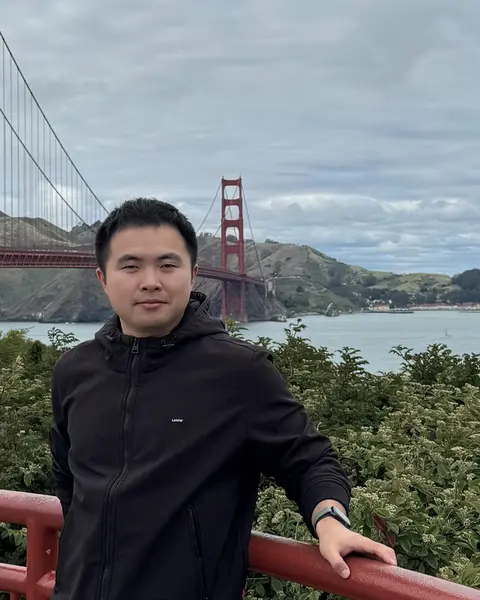
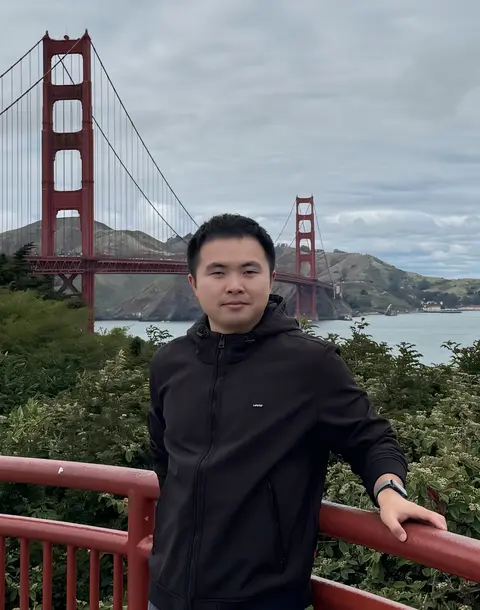
Deploying to gh-pages from @ hongzhengTian/hongzhengtian.github.io@e27018cf08aafd1211466bfc9c48710d0896c82e 🚀

diff --git a/index.html b/index.html
@@ -4,7 +4,7 @@
   }
 </style> <link rel="stylesheet" href="/assets/css/tailwind.css?v=50c64c15cbb9fd1ce6056fdb8bcb4b62"> <link defer rel="stylesheet" href="https://cdn.jsdelivr.net/npm/@fortawesome/fontawesome-free@7.2.0/css/all.min.css" integrity="sha256-MVopmdyC2tYTiJ8wlktf0uh0v4NgT+vNdyVFepi7Q0c=" crossorigin="anonymous"> <link defer rel="stylesheet" href="https://cdn.jsdelivr.net/npm/academicons@1.9.5/css/academicons.min.css" integrity="sha256-SzrCOBJbGVFMahewkgjwnApaV2+av1DwMAA+/QGLyZw=" crossorigin="anonymous"> <link defer rel="stylesheet" href="https://cdn.jsdelivr.net/npm/scholar-icons@1.0.3/css/scholar-icons.css" integrity="sha256-VY3hHVj/hNX3fYG6wtbA6TcKJQl7+FthzGSyIB64klY=" crossorigin="anonymous"> <link defer rel="stylesheet" type="text/css" href="https://fonts.googleapis.com/css?family=Roboto:300,400,500,700|Roboto+Slab:100,300,400,500,700|Material+Icons&amp;display=swap"> <link defer rel="stylesheet" href="/assets/css/jekyll-pygments-themes-github.css?v=591dab5a4e56573bf4ef7fd332894c99" media="" id="highlight_theme_light"> <link rel="stylesheet" href="/assets/css/main.css?v=f0b101217084a90093badfe99ff9a7d1"> <link rel="canonical" href="https://hongzhengtian.github.io/"> <script src="/assets/js/theme.js?v=7af685e2ba20b37fef545c97b8064050"></script> <link defer rel="stylesheet" href="/assets/css/jekyll-pygments-themes-native.css?v=5847e5ed4a4568527aa6cfab446049ca" media="none" id="highlight_theme_dark"> <script>
     initTheme();
-  </script> </head> <body class="fixed-top-nav "> <header> <nav id="navbar" class="navbar navbar-light navbar-expand-sm fixed-top" role="navigation"> <div class="container"> <button class="navbar-toggler collapsed navbar-toggler-main" type="button" data-nav-toggle="navbarNav" aria-controls="navbarNav" aria-expanded="false" aria-label="Toggle navigation"> <span class="sr-only">Toggle navigation</span> <span class="icon-bar top-bar"></span> <span class="icon-bar middle-bar"></span> <span class="icon-bar bottom-bar"></span> </button> <div class="collapse navbar-collapse navbar-collapse-main" id="navbarNav"> <ul class="navbar-nav navbar-menu-list flex-nowrap"> <li class="nav-item active"> <a class="nav-link" href="/">about <span class="sr-only">(current)</span> </a> </li> <li class="nav-item "> <a class="nav-link" href="/research/">research </a> </li> <li class="nav-item "> <a class="nav-link" href="/publications/">publications </a> </li> <li class="nav-item "> <a class="nav-link" href="/experience/">experience </a> </li> <li class="nav-item "> <a class="nav-link" href="/cv/">CV </a> </li> <li class="nav-item "> <a class="nav-link" href="/photography/">photography </a> </li> <li class="nav-item"> <button id="search-toggle" type="button" title="Search" aria-label="Open search"> <span class="nav-link">ctrl k <i class="fa-solid fa-magnifying-glass"></i></span> </button> </li> <li class="toggle-container"> <button id="light-toggle" type="button" title="Change theme" aria-label="Change color theme"> <i class="fa-half-sun-moon" id="light-toggle-system"></i> <i class="fa-solid fa-moon" id="light-toggle-dark"></i> <i class="fa-solid fa-sun" id="light-toggle-light"></i> </button> </li> </ul> </div> </div> </nav> <progress id="progress" value="0"> <div class="progress-container"> <span class="progress-bar"></span> </div> </progress> </header> <div class="container mt-5" role="main"> <div class="post"> <header class="post-header"> <h1 class="post-title"> Hongzheng Tian </h1> <p class="desc">Ph.D. Candidate in Computer Engineering, University of California, Irvine</p> </header> <article> <div class="profile float-right"> <figure> <picture> <source class="responsive-img-srcset" srcset="/assets/img/prof_pic-480.webp 480w,/assets/img/prof_pic-800.webp 800w,/assets/img/prof_pic-1400.webp 1400w," type="image/webp" sizes="(min-width: 930px) 270.0px, (min-width: 576px) 30vw, 95vw"> <img src="/assets/img/prof_pic.jpg?v=1dd28f9ddda666f04de87e12becac908" class="img-fluid z-depth-1 rounded" width="100%" height="auto" alt="prof_pic.jpg" loading="eager" onerror="this.onerror=null; document.querySelectorAll('.responsive-img-srcset').forEach(function (n) { n.remove(); });"> </source></picture> </figure> <div class="more-info"> <p>EECS, UC Irvine</p> <p>CORSA Research Group</p> <p>hongzhet [at] uci [dot] edu</p> </div> </div> <div class="clearfix"> <p>I am a Ph.D. candidate in Computer Engineering at the <a href="https://engineering.uci.edu/dept/eecs" rel="external nofollow noopener" target="_blank">EECS Department</a> of the <a href="https://uci.edu/" rel="external nofollow noopener" target="_blank">University of California, Irvine</a>, advised by Prof. <a href="https://engineering.uci.edu/users/sitao-huang" rel="external nofollow noopener" target="_blank">Sitao Huang</a> in the <a href="https://corsa.eng.uci.edu/" rel="external nofollow noopener" target="_blank">CORSA</a> research group.</p> <p>My research lies at the intersection of <strong>compilers, optimization, and heterogeneous computing</strong>. I build compiler and benchmarking systems that translate high-level workloads into efficient, architecture-aware code targeting CPUs, GPUs, and FPGAs. My recent work studies benchmark design, MLIR-based compilation, task scheduling, and hardware/software co-optimization for diverse accelerator platforms.</p> <p>I am broadly interested in compiler infrastructure for heterogeneous systems, performance portability, accelerator design automation, and practical tools that help researchers and developers reason about efficiency across modern hardware.</p> <p>You can find my latest <a href="/assets/pdf/HongzhengTian_CV.pdf">CV</a>, <a href="https://github.com/hongzhengTian" rel="external nofollow noopener" target="_blank">GitHub</a>, and <a href="http://linkedin.com/in/hongzheng-tian-853258204" rel="external nofollow noopener" target="_blank">LinkedIn</a> here.</p> </div> <h2> <a href="/news/" style="color: inherit">news</a> </h2> <div class="news"> <div class="table-responsive"> <table class="table table-sm table-borderless"> <tr> <th scope="row" style="width: 20%">May 01, 2025</th> <td> HeteroBench received the Best Paper Award - Artifact Track at ICPE 2025. </td> </tr> <tr> <th scope="row" style="width: 20%">Nov 17, 2024</th> <td> Presented CoVA at the SC24 ACM Student Research Competition. </td> </tr> <tr> <th scope="row" style="width: 20%">Oct 01, 2024</th> <td> Published work on optimized spatial architecture mapping for Transformer accelerators on arXiv. </td> </tr> </table> </div> </div> <h2> <a href="/publications/" style="color: inherit">selected publications</a> </h2> <div class="publications"> <ol class="bibliography"> <li> <div class="row"> <div class="col col-sm-2 abbr"> <abbr class="badge rounded w-100"> <a href="https://icpe.spec.org/" rel="external nofollow noopener" target="_blank">ICPE</a> </abbr> </div> <div id="tian2025heterobench" class="col-sm-8"> <div class="title">HeteroBench: Multi-kernel Benchmarks for Heterogeneous Systems</div> <div class="author"> <em>Hongzheng Tian</em> and others </div> <div class="periodical"> <em>In Proceedings of the ACM/SPEC International Conference on Performance Engineering</em>, 2025 </div> <div class="periodical"> </div> <div class="links"> <a href="https://doi.org/10.1145/3676151.3719366" class="btn btn-sm z-depth-0" role="button" rel="external nofollow noopener" target="_blank">DOI</a> <a href="https://doi.org/10.1145/3676151.3719366" class="btn btn-sm z-depth-0" role="button" rel="external nofollow noopener" target="_blank">HTML</a> <a href="https://github.com/HewlettPackard/HeteroBench" class="btn btn-sm z-depth-0" role="button" rel="external nofollow noopener" target="_blank">Code</a> </div> </div> </div> </li> <li> <div class="row"> <div class="col col-sm-2 abbr"> <abbr class="badge rounded w-100">arXiv</abbr> </div> <div id="xu2024samt" class="col-sm-8"> <div class="title">Optimized Spatial Architecture Mapping Flow for Transformer Accelerators</div> <div class="author"> Haocheng Xu, Faraz Tahmasebi, Ye Qiao, and <span class="more-authors" title="click to view 3 more authors" onclick=" var element=this; element.setAttribute('title', ''); var more_authors_text=element.textContent == '3 more authors' ? 'Hongzheng Tian, Hyoukjun Kwon, Sitao Huang' : '3 more authors'; var cursorPosition=0; var textAdder=setInterval(function(){ element.innerHTML = more_authors_text.substring(0, cursorPosition + 1); if (++cursorPosition == more_authors_text.length){ clearInterval(textAdder); } }, '10'); ">3 more authors</span> </div> <div class="periodical"> <em>arXiv preprint arXiv:2410.07407</em>, 2024 </div> <div class="periodical"> </div> <div class="links"> <a href="http://arxiv.org/abs/2410.07407" class="btn btn-sm z-depth-0" role="button" rel="external nofollow noopener" target="_blank">arXiv</a> <a href="https://arxiv.org/abs/2410.07407" class="btn btn-sm z-depth-0" role="button" rel="external nofollow noopener" target="_blank">HTML</a> </div> </div> </div> </li> <li> <div class="row"> <div class="col col-sm-2 abbr"> <abbr class="badge rounded w-100"> <a href="https://supercomputing.org/" rel="external nofollow noopener" target="_blank">SC</a> </abbr> </div> <div id="tian2024cova" class="col-sm-8"> <div class="title">CoVA: An MLIR-Based Compilation Flow for Versatile Architecture</div> <div class="author"> <em>Hongzheng Tian</em> and others </div> <div class="periodical"> 2024 </div> <div class="periodical"> </div> <div class="links"> <a href="https://sc24.supercomputing.org/proceedings/poster/poster_pages/post190.html" class="btn btn-sm z-depth-0" role="button" rel="external nofollow noopener" target="_blank">HTML</a> </div> </div> </div> </li> <li> <div class="row"> <div class="col col-sm-2 abbr"> <abbr class="badge rounded w-100"> <a href="https://iccad.com/" rel="external nofollow noopener" target="_blank">ICCAD</a> </abbr> </div> <div id="zhang2024pathplanning" class="col-sm-8"> <div class="title">A Sparsity-Aware Autonomous Path Planning Accelerator with HW/SW Co-Design and Multi-Level Dataflow Optimization</div> <div class="author"> Yifan Zhang, Xiaoyu Niu, <em>Hongzheng Tian</em>, and <span class="more-authors" title="click to view 4 more authors" onclick=" var element=this; element.setAttribute('title', ''); var more_authors_text=element.textContent == '4 more authors' ? 'Yanjun Zhang, Bo Yu, Shaoshan Liu, Sitao Huang' : '4 more authors'; var cursorPosition=0; var textAdder=setInterval(function(){ element.innerHTML = more_authors_text.substring(0, cursorPosition + 1); if (++cursorPosition == more_authors_text.length){ clearInterval(textAdder); } }, '10'); ">4 more authors</span> </div> <div class="periodical"> <em>In Proceedings of the IEEE/ACM International Conference on Computer-Aided Design</em>, 2024 </div> <div class="periodical"> </div> <div class="links"> <a href="https://dl.acm.org/doi/abs/10.1145/3676536.3676700" class="btn btn-sm z-depth-0" role="button" rel="external nofollow noopener" target="_blank">HTML</a> </div> </div> </div> </li> <li> <div class="row"> <div class="col col-sm-2 abbr"> <abbr class="badge rounded w-100"> <a href="https://www.dac.com/" rel="external nofollow noopener" target="_blank">DAC</a> </abbr> </div> <div id="tian2023pyaie" class="col-sm-8"> <div class="title">PyAIE: A Python-based Programming Framework for Versal ACAP AI Engines</div> <div class="author"> <em>Hongzheng Tian</em>, Shining Yang, Yoonha Cha, and <span class="more-authors" title="click to view 1 more author" onclick=" var element=this; element.setAttribute('title', ''); var more_authors_text=element.textContent == '1 more author' ? 'Sitao Huang' : '1 more author'; var cursorPosition=0; var textAdder=setInterval(function(){ element.innerHTML = more_authors_text.substring(0, cursorPosition + 1); if (++cursorPosition == more_authors_text.length){ clearInterval(textAdder); } }, '10'); ">1 more author</span> </div> <div class="periodical"> 2023 </div> <div class="periodical"> </div> <div class="links"> <a href="https://ieeexplore.ieee.org/abstract/document/10247843" class="btn btn-sm z-depth-0" role="button" rel="external nofollow noopener" target="_blank">HTML</a> <a href="https://capra.cs.cornell.edu/latte23/paper/10.pdf" class="btn btn-sm z-depth-0" role="button" rel="external nofollow noopener" target="_blank">PDF</a> </div> </div> </div> </li> </ol> </div> <div class="social"> <div class="contact-icons"> <a href="/assets/pdf/HongzhengTian_CV.pdf" title="Cv pdf"><i class="ai ai-cv"></i></a> <a href="mailto:[email redacted]" title="Email"><i class="fa-solid fa-envelope"></i></a> <a href="https://github.com/hongzhengTian" title="Github username" rel="external nofollow noopener" target="_blank"><i class="fa-brands fa-github"></i></a> <a href="https://www.linkedin.com/in/hongzheng-tian-853258204" title="Linkedin username" rel="external nofollow noopener" target="_blank"><i class="fa-brands fa-linkedin"></i></a> <a href="/feed.xml" title="Rss icon"><i class="fa-solid fa-square-rss"></i></a> </div> <div class="contact-note">For research collaborations, please reach me by academic email. </div> </div> </article> </div> </div> <footer class="fixed-bottom" role="contentinfo"> <div class="container mt-0"> © Copyright 2026 Hongzheng Tian. Powered by <a href="https://jekyllrb.com/" target="_blank" rel="external nofollow noopener">Jekyll</a> with <a href="https://github.com/alshedivat/al-folio" rel="external nofollow noopener" target="_blank">al-folio</a>. Hosted by <a href="https://pages.github.com/" target="_blank" rel="external nofollow noopener">GitHub Pages</a>. </div> </footer> <script>
+  </script> </head> <body class="fixed-top-nav "> <header> <nav id="navbar" class="navbar navbar-light navbar-expand-sm fixed-top" role="navigation"> <div class="container"> <button class="navbar-toggler collapsed navbar-toggler-main" type="button" data-nav-toggle="navbarNav" aria-controls="navbarNav" aria-expanded="false" aria-label="Toggle navigation"> <span class="sr-only">Toggle navigation</span> <span class="icon-bar top-bar"></span> <span class="icon-bar middle-bar"></span> <span class="icon-bar bottom-bar"></span> </button> <div class="collapse navbar-collapse navbar-collapse-main" id="navbarNav"> <ul class="navbar-nav navbar-menu-list flex-nowrap"> <li class="nav-item active"> <a class="nav-link" href="/">about <span class="sr-only">(current)</span> </a> </li> <li class="nav-item "> <a class="nav-link" href="/research/">research </a> </li> <li class="nav-item "> <a class="nav-link" href="/publications/">publications </a> </li> <li class="nav-item "> <a class="nav-link" href="/experience/">experience </a> </li> <li class="nav-item "> <a class="nav-link" href="/cv/">CV </a> </li> <li class="nav-item "> <a class="nav-link" href="/photography/">photography </a> </li> <li class="nav-item"> <button id="search-toggle" type="button" title="Search" aria-label="Open search"> <span class="nav-link">ctrl k <i class="fa-solid fa-magnifying-glass"></i></span> </button> </li> <li class="toggle-container"> <button id="light-toggle" type="button" title="Change theme" aria-label="Change color theme"> <i class="fa-half-sun-moon" id="light-toggle-system"></i> <i class="fa-solid fa-moon" id="light-toggle-dark"></i> <i class="fa-solid fa-sun" id="light-toggle-light"></i> </button> </li> </ul> </div> </div> </nav> <progress id="progress" value="0"> <div class="progress-container"> <span class="progress-bar"></span> </div> </progress> </header> <div class="container mt-5" role="main"> <div class="post"> <header class="post-header"> <h1 class="post-title"> Hongzheng Tian </h1> <p class="desc">Ph.D. Candidate in Computer Engineering, University of California, Irvine</p> </header> <article> <div class="profile float-right"> <figure> <picture> <source class="responsive-img-srcset" srcset="/assets/img/prof_pic-480.webp 480w,/assets/img/prof_pic-800.webp 800w,/assets/img/prof_pic-1400.webp 1400w," type="image/webp" sizes="(min-width: 930px) 270.0px, (min-width: 576px) 30vw, 95vw"> <img src="/assets/img/prof_pic.jpg?v=abb1783e370834d1f7ea64de0dc197b7" class="img-fluid z-depth-1 rounded" width="100%" height="auto" alt="prof_pic.jpg" loading="eager" onerror="this.onerror=null; document.querySelectorAll('.responsive-img-srcset').forEach(function (n) { n.remove(); });"> </source></picture> </figure> <div class="more-info"> <p>EECS, UC Irvine</p> <p>CORSA Research Group</p> <p>hongzhet [at] uci [dot] edu</p> </div> </div> <div class="clearfix"> <p>I am a Ph.D. candidate in Computer Engineering at the <a href="https://engineering.uci.edu/dept/eecs" rel="external nofollow noopener" target="_blank">EECS Department</a> of the <a href="https://uci.edu/" rel="external nofollow noopener" target="_blank">University of California, Irvine</a>, advised by Prof. <a href="https://engineering.uci.edu/users/sitao-huang" rel="external nofollow noopener" target="_blank">Sitao Huang</a> in the <a href="https://corsa.eng.uci.edu/" rel="external nofollow noopener" target="_blank">CORSA</a> research group.</p> <p>My research lies at the intersection of <strong>compilers, optimization, and heterogeneous computing</strong>. I build compiler and benchmarking systems that translate high-level workloads into efficient, architecture-aware code targeting CPUs, GPUs, and FPGAs. My recent work studies benchmark design, MLIR-based compilation, task scheduling, and hardware/software co-optimization for diverse accelerator platforms.</p> <p>I am broadly interested in compiler infrastructure for heterogeneous systems, performance portability, accelerator design automation, and practical tools that help researchers and developers reason about efficiency across modern hardware.</p> <p>You can find my latest <a href="/assets/pdf/HongzhengTian_CV.pdf">CV</a>, <a href="https://github.com/hongzhengTian" rel="external nofollow noopener" target="_blank">GitHub</a>, and <a href="http://linkedin.com/in/hongzheng-tian-853258204" rel="external nofollow noopener" target="_blank">LinkedIn</a> here.</p> </div> <h2> <a href="/news/" style="color: inherit">news</a> </h2> <div class="news"> <div class="table-responsive"> <table class="table table-sm table-borderless"> <tr> <th scope="row" style="width: 20%">May 01, 2025</th> <td> HeteroBench received the Best Paper Award - Artifact Track at ICPE 2025. </td> </tr> <tr> <th scope="row" style="width: 20%">Nov 17, 2024</th> <td> Presented CoVA at the SC24 ACM Student Research Competition. </td> </tr> <tr> <th scope="row" style="width: 20%">Oct 01, 2024</th> <td> Published work on optimized spatial architecture mapping for Transformer accelerators on arXiv. </td> </tr> </table> </div> </div> <h2> <a href="/publications/" style="color: inherit">selected publications</a> </h2> <div class="publications"> <ol class="bibliography"> <li> <div class="row"> <div class="col col-sm-2 abbr"> <abbr class="badge rounded w-100"> <a href="https://icpe.spec.org/" rel="external nofollow noopener" target="_blank">ICPE</a> </abbr> </div> <div id="tian2025heterobench" class="col-sm-8"> <div class="title">HeteroBench: Multi-kernel Benchmarks for Heterogeneous Systems</div> <div class="author"> <em>Hongzheng Tian</em> and others </div> <div class="periodical"> <em>In Proceedings of the ACM/SPEC International Conference on Performance Engineering</em>, 2025 </div> <div class="periodical"> </div> <div class="links"> <a href="https://doi.org/10.1145/3676151.3719366" class="btn btn-sm z-depth-0" role="button" rel="external nofollow noopener" target="_blank">DOI</a> <a href="https://doi.org/10.1145/3676151.3719366" class="btn btn-sm z-depth-0" role="button" rel="external nofollow noopener" target="_blank">HTML</a> <a href="https://github.com/HewlettPackard/HeteroBench" class="btn btn-sm z-depth-0" role="button" rel="external nofollow noopener" target="_blank">Code</a> </div> </div> </div> </li> <li> <div class="row"> <div class="col col-sm-2 abbr"> <abbr class="badge rounded w-100">arXiv</abbr> </div> <div id="xu2024samt" class="col-sm-8"> <div class="title">Optimized Spatial Architecture Mapping Flow for Transformer Accelerators</div> <div class="author"> Haocheng Xu, Faraz Tahmasebi, Ye Qiao, and <span class="more-authors" title="click to view 3 more authors" onclick=" var element=this; element.setAttribute('title', ''); var more_authors_text=element.textContent == '3 more authors' ? 'Hongzheng Tian, Hyoukjun Kwon, Sitao Huang' : '3 more authors'; var cursorPosition=0; var textAdder=setInterval(function(){ element.innerHTML = more_authors_text.substring(0, cursorPosition + 1); if (++cursorPosition == more_authors_text.length){ clearInterval(textAdder); } }, '10'); ">3 more authors</span> </div> <div class="periodical"> <em>arXiv preprint arXiv:2410.07407</em>, 2024 </div> <div class="periodical"> </div> <div class="links"> <a href="http://arxiv.org/abs/2410.07407" class="btn btn-sm z-depth-0" role="button" rel="external nofollow noopener" target="_blank">arXiv</a> <a href="https://arxiv.org/abs/2410.07407" class="btn btn-sm z-depth-0" role="button" rel="external nofollow noopener" target="_blank">HTML</a> </div> </div> </div> </li> <li> <div class="row"> <div class="col col-sm-2 abbr"> <abbr class="badge rounded w-100"> <a href="https://supercomputing.org/" rel="external nofollow noopener" target="_blank">SC</a> </abbr> </div> <div id="tian2024cova" class="col-sm-8"> <div class="title">CoVA: An MLIR-Based Compilation Flow for Versatile Architecture</div> <div class="author"> <em>Hongzheng Tian</em> and others </div> <div class="periodical"> 2024 </div> <div class="periodical"> </div> <div class="links"> <a href="https://sc24.supercomputing.org/proceedings/poster/poster_pages/post190.html" class="btn btn-sm z-depth-0" role="button" rel="external nofollow noopener" target="_blank">HTML</a> </div> </div> </div> </li> <li> <div class="row"> <div class="col col-sm-2 abbr"> <abbr class="badge rounded w-100"> <a href="https://iccad.com/" rel="external nofollow noopener" target="_blank">ICCAD</a> </abbr> </div> <div id="zhang2024pathplanning" class="col-sm-8"> <div class="title">A Sparsity-Aware Autonomous Path Planning Accelerator with HW/SW Co-Design and Multi-Level Dataflow Optimization</div> <div class="author"> Yifan Zhang, Xiaoyu Niu, <em>Hongzheng Tian</em>, and <span class="more-authors" title="click to view 4 more authors" onclick=" var element=this; element.setAttribute('title', ''); var more_authors_text=element.textContent == '4 more authors' ? 'Yanjun Zhang, Bo Yu, Shaoshan Liu, Sitao Huang' : '4 more authors'; var cursorPosition=0; var textAdder=setInterval(function(){ element.innerHTML = more_authors_text.substring(0, cursorPosition + 1); if (++cursorPosition == more_authors_text.length){ clearInterval(textAdder); } }, '10'); ">4 more authors</span> </div> <div class="periodical"> <em>In Proceedings of the IEEE/ACM International Conference on Computer-Aided Design</em>, 2024 </div> <div class="periodical"> </div> <div class="links"> <a href="https://dl.acm.org/doi/abs/10.1145/3676536.3676700" class="btn btn-sm z-depth-0" role="button" rel="external nofollow noopener" target="_blank">HTML</a> </div> </div> </div> </li> <li> <div class="row"> <div class="col col-sm-2 abbr"> <abbr class="badge rounded w-100"> <a href="https://www.dac.com/" rel="external nofollow noopener" target="_blank">DAC</a> </abbr> </div> <div id="tian2023pyaie" class="col-sm-8"> <div class="title">PyAIE: A Python-based Programming Framework for Versal ACAP AI Engines</div> <div class="author"> <em>Hongzheng Tian</em>, Shining Yang, Yoonha Cha, and <span class="more-authors" title="click to view 1 more author" onclick=" var element=this; element.setAttribute('title', ''); var more_authors_text=element.textContent == '1 more author' ? 'Sitao Huang' : '1 more author'; var cursorPosition=0; var textAdder=setInterval(function(){ element.innerHTML = more_authors_text.substring(0, cursorPosition + 1); if (++cursorPosition == more_authors_text.length){ clearInterval(textAdder); } }, '10'); ">1 more author</span> </div> <div class="periodical"> 2023 </div> <div class="periodical"> </div> <div class="links"> <a href="https://ieeexplore.ieee.org/abstract/document/10247843" class="btn btn-sm z-depth-0" role="button" rel="external nofollow noopener" target="_blank">HTML</a> <a href="https://capra.cs.cornell.edu/latte23/paper/10.pdf" class="btn btn-sm z-depth-0" role="button" rel="external nofollow noopener" target="_blank">PDF</a> </div> </div> </div> </li> </ol> </div> <div class="social"> <div class="contact-icons"> <a href="/assets/pdf/HongzhengTian_CV.pdf" title="Cv pdf"><i class="ai ai-cv"></i></a> <a href="mailto:[email redacted]" title="Email"><i class="fa-solid fa-envelope"></i></a> <a href="https://github.com/hongzhengTian" title="Github username" rel="external nofollow noopener" target="_blank"><i class="fa-brands fa-github"></i></a> <a href="https://www.linkedin.com/in/hongzheng-tian-853258204" title="Linkedin username" rel="external nofollow noopener" target="_blank"><i class="fa-brands fa-linkedin"></i></a> <a href="/feed.xml" title="Rss icon"><i class="fa-solid fa-square-rss"></i></a> </div> <div class="contact-note">For research collaborations, please reach me by academic email. </div> </div> </article> </div> </div> <footer class="fixed-bottom" role="contentinfo"> <div class="container mt-0"> © Copyright 2026 Hongzheng Tian. Powered by <a href="https://jekyllrb.com/" target="_blank" rel="external nofollow noopener">Jekyll</a> with <a href="https://github.com/alshedivat/al-folio" rel="external nofollow noopener" target="_blank">al-folio</a>. Hosted by <a href="https://pages.github.com/" target="_blank" rel="external nofollow noopener">GitHub Pages</a>. </div> </footer> <script>
   window.alFolio = {
     compatBootstrap: false
   };